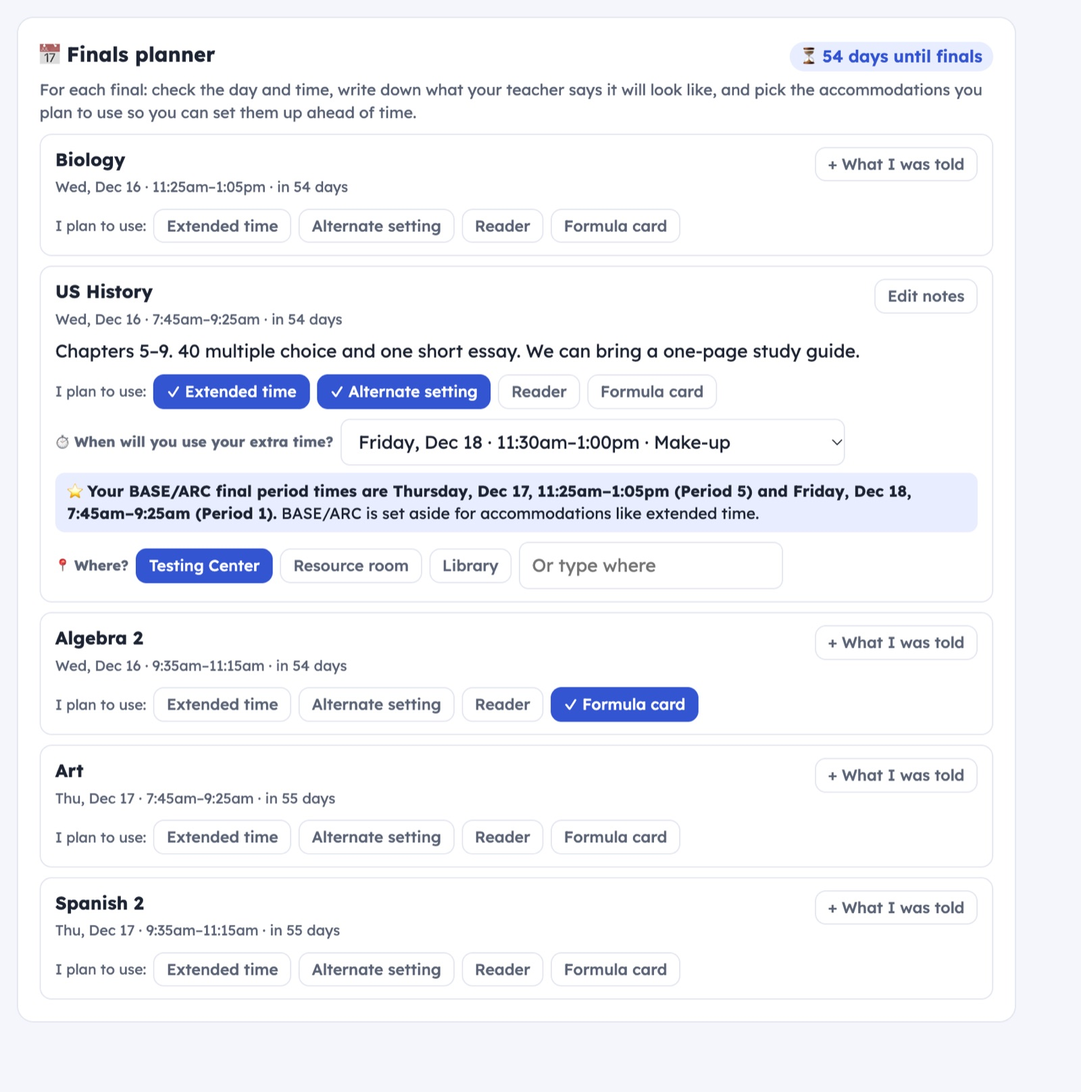
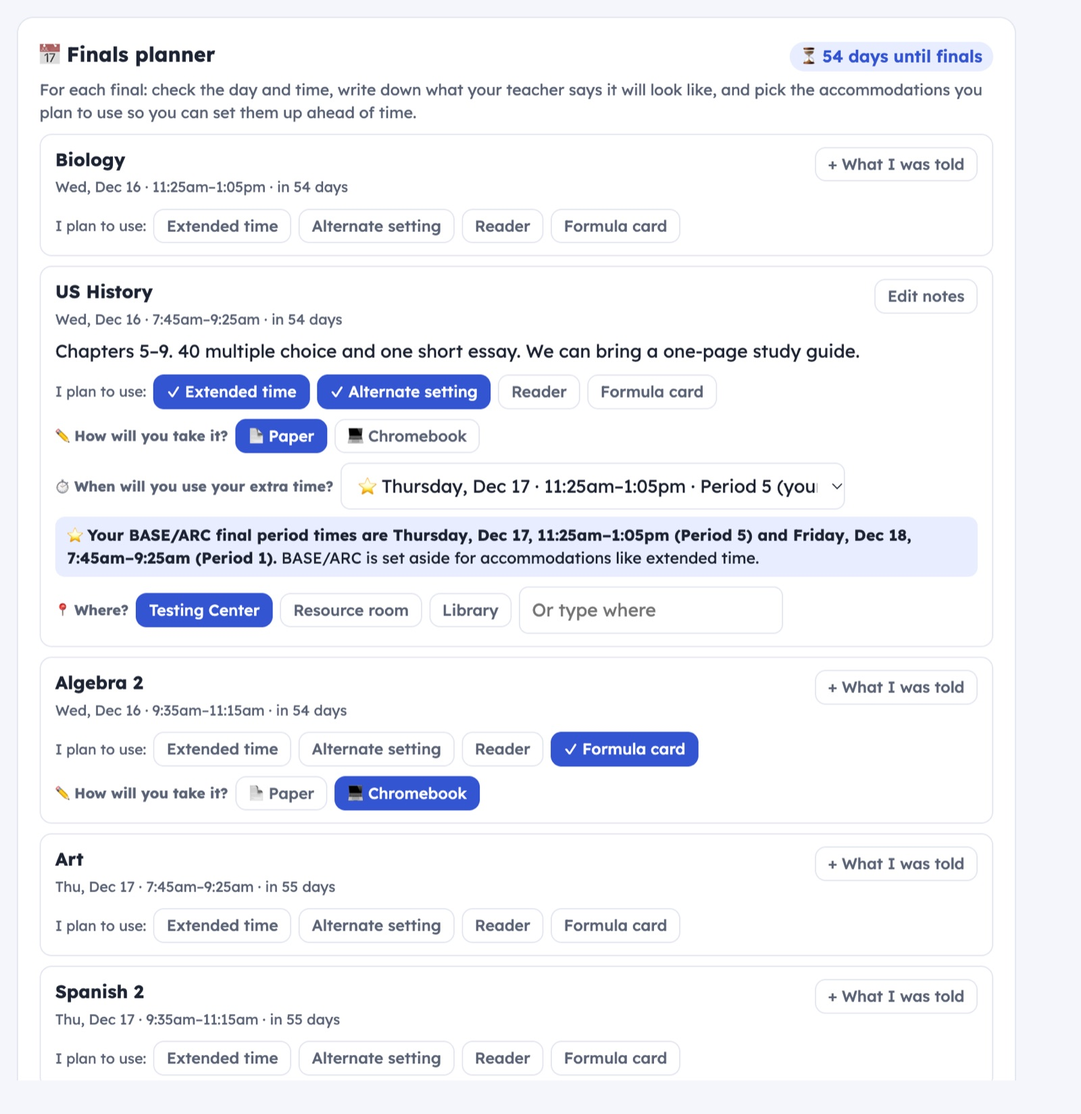
Resource Check-In showcase: finals list by period with test style; demo 1.95

diff --git a/resource/demo.html b/resource/demo.html
@@ -430,7 +430,7 @@ tr.lowrow td { background: var(--chip); border-bottom: 1px solid var(--line); }
    plan how they'll use resource time, and list upcoming tests. The teacher sees everyone.
    A Google Sheet + Apps Script web app. How to set it up: SETUP.md. */
 
-var VERSION = '1.94';
+var VERSION = '1.95';
 
 // Data tabs and their columns. Dates are stored as text (yyyy-mm-dd).
 var TABS = {
@@ -479,7 +479,7 @@ var TABS = {
   'Self-report checks': ['Week of', 'Email', 'Class', 'Said missing', 'Found missing (pasted page)', 'Checked', 'Match'],
   // the grade each student wants to finish the semester with, per class; and what each class said the final exam will be like
   'Grade goals': ['Email', 'Semester', 'Class', 'Goal (%)', 'Updated', 'Reason for the change'],
-  'Final exams': ['Email', 'Semester', 'Class', 'Exam date', 'What it will look like', 'Updated', 'Accommodations I plan to use', 'Extended time: when', 'Alternate setting: where'],
+  'Final exams': ['Email', 'Semester', 'Class', 'Exam date', 'What it will look like', 'Updated', 'Accommodations I plan to use', 'Extended time: when', 'Alternate setting: where', 'Test style (Paper or Chromebook)'],
   // the school's final exam schedule (change it each semester): which period's final is when
   'Final exam schedule': ['Date', 'Start', 'End', 'Period (or Make-up)'],
   // the school year (change it each year): days with no school, finals days, and the first and last day; the grade check day moves around them
@@ -3419,15 +3419,16 @@ function api_saveFinal(cls, date, text, accoms, x) {
   return locked_(function () {
     var old = rows_('Final exams').filter(function (r) { return low_(r[0]) === email && day_(r[1]) === sem && String(r[2]) === cls; })[0] || [];
     var when = x && x.when !== undefined ? clean_(x.when, 120) : String(old[7] || ''), where = x && x.where !== undefined ? clean_(x.where, 120) : String(old[8] || '');
+    var style = x && x.style !== undefined ? (/^(Paper|Chromebook)$/.test(String(x.style)) ? String(x.style) : '') : String(old[9] || '');
     if (!list.some(function (a) { return FIN_EXT.test(a); })) when = '';          // only with extended time / an alternate setting chosen
     if (!list.some(function (a) { return FIN_ALT.test(a); })) where = '';
-    rewrite_('Final exams', function (r) { return !(low_(r[0]) === email && day_(r[1]) === sem && String(r[2]) === cls); }, text || date || acc ? [[email, sem, cls, date, text, stamp_(), acc, when, where]] : []);
+    rewrite_('Final exams', function (r) { return !(low_(r[0]) === email && day_(r[1]) === sem && String(r[2]) === cls); }, text || date || acc || style ? [[email, sem, cls, date, text, stamp_(), acc, when, where, style]] : []);
     return finals_(email);
   });
 }
 function finals_(email) {
   var sem = semStart_(), o = {};
-  rows_('Final exams').forEach(function (r) { if (low_(r[0]) === email && day_(r[1]) === sem) o[String(r[2])] = { date: day_(r[3]), text: String(r[4] || ''), updated: String(r[5] || ''), accoms: String(r[6] || '').split('; ').filter(String), when: String(r[7] || ''), where: String(r[8] || '') }; });
+  rows_('Final exams').forEach(function (r) { if (low_(r[0]) === email && day_(r[1]) === sem) o[String(r[2])] = { date: day_(r[3]), text: String(r[4] || ''), updated: String(r[5] || ''), accoms: String(r[6] || '').split('; ').filter(String), when: String(r[7] || ''), where: String(r[8] || ''), style: String(r[9] || '') }; });
   return o;
 }
 // Teacher: every student's final with accommodations planned, in exam order (for testing rooms and extended time).
@@ -3437,7 +3438,7 @@ function finalsAccoms_(names) {
   rows_('Final exams').forEach(function (r) {
     if (day_(r[1]) !== sem || !String(r[6] || '')) return;
     var e = low_(r[0]), cls = String(r[2]), p = per[e + '|' + cls] || '', slot = finalSlot_(p, sched);
-    out.push({ email: e, name: names[e] || e, cls: cls, period: p, date: (slot && slot.date) || day_(r[3]), start: slot ? slot.start : '', end: slot ? slot.end : '', accoms: String(r[6]).split('; ').filter(String), when: String(r[7] || ''), where: String(r[8] || '') });
+    out.push({ email: e, name: names[e] || e, cls: cls, period: p, date: (slot && slot.date) || day_(r[3]), start: slot ? slot.start : '', end: slot ? slot.end : '', accoms: String(r[6]).split('; ').filter(String), when: String(r[7] || ''), where: String(r[8] || ''), style: String(r[9] || '') });
   });
   return out.sort(function (a, b) { return (a.date || '9') + a.start < (b.date || '9') + b.start ? -1 : 1; });
 }
@@ -3950,8 +3951,8 @@ function weekOf_(s) { var p = s.split('-'), dow = new Date(Date.UTC(+p[0], +p[1]
     g.setUser('ort123456@d204.lths.net');
     api_saveDayPlan('Finish the Ch. 6 worksheet for US History, then make flashcards for Thursday’s test');
     api_saveGradeGoals({ 'US History': 70, 'Algebra 2': 80, Biology: 80, 'Spanish 2': 90 });
-    api_saveFinal('US History', '', 'Chapters 5–9. 40 multiple choice and one short essay. We can bring a one-page study guide.', ['Extended time', 'Alternate setting'], { when: 'Friday, Dec 18 · 11:30am–1:00pm · Make-up', where: 'Testing Center' });
-    api_saveFinal('Algebra 2', '', '', ['Formula card']);
+    api_saveFinal('US History', '', 'Chapters 5–9. 40 multiple choice and one short essay. We can bring a one-page study guide.', ['Extended time', 'Alternate setting'], { when: 'Thursday, Dec 17 · 11:25am–1:05pm · Period 5', where: 'Testing Center', style: 'Paper' });
+    api_saveFinal('Algebra 2', '', '', ['Formula card'], { style: 'Chromebook' });
     g.setUser('smi513421@d204.lths.net');
     api_saveDayPlan('Study for the Geometry Unit 3 test');
     api_saveGradeGoals({ 'Geometry Prep': 80, Chemistry: 90, 'English II': 85 });
@@ -3964,6 +3965,7 @@ function weekOf_(s) { var p = s.split('-'), dow = new Date(Date.UTC(+p[0], +p[1]
     api_saveBenchmark('ort123456@d204.lths.net', { text: 'By December, Marcus will start work within 1 minute in 4 of 5 trials, have 2 or fewer missing assignments, and turn in 80% of coursework.', targets: t1, by: addDays_(today, 50) });
     api_flagDayPlan('wil501777@d204.lths.net', addDays_(today, -1), true, 'On his phone most of the period');
   }
+  if (/demo=1/.test(location.search)) { g.setUser('smi513421@d204.lths.net'); api_saveFinal('Chemistry', '', '', ['Extended time', 'Reader'], { when: 'Friday, Dec 18 · 11:30am–1:00pm · Make-up', style: 'Chromebook' }); api_saveFinal('Geometry Prep', '', '', ['Alternate setting'], { where: 'Resource room', style: 'Paper' }); }
   if (/demo=1/.test(location.search)) {          // tests with the resource teacher: a request, a released access code, a paper test
     g.setUser('wil501777@d204.lths.net'); var dc = api_myData().classes.filter(function (c) { return !c.resource; })[0]; if (dc) api_testRequest('folder', dc.name, 'Chapter 5 quiz');
     g.setUser('ray@d204.lths.net');
@@ -4945,6 +4947,8 @@ function finWhenOpts() {
 }
 function finExtras(k, f) {
   var h = '';
+  if (f.accoms.length) h += '<div class="row" style="gap:6px;margin-top:8px;align-items:center"><span class="small" style="display:inline"><b>✏ How will you take it?</b></span>' +
+    [['Paper', '📄 Paper'], ['Chromebook', '💻 Chromebook']].map(function (o) { return '<button class="btn small' + (f.style === o[0] ? ' primary' : '') + '" onclick="finExtra(' + k + ',\'style\',\'' + (f.style === o[0] ? '' : o[0]) + '\')">' + o[1] + '</button>'; }).join('') + '</div>';
   var mine = finMine().map(finWhenText), dc = esc(B.dayClass || 'resource');
   if (f.accoms.some(function (a) { return FIN_EXT.test(a); })) h += '<div class="row" style="gap:6px;margin-top:8px;align-items:center"><span class="small" style="display:inline"><b>⏱ When will you use your extra time?</b></span><select style="max-width:420px" onchange="finExtra(' + k + ',\'when\',this.value)"><option value="">Pick a time</option>' +
     finWhenOpts().map(function (o) { var my = mine.indexOf(o) >= 0; return '<option value="' + esc(o) + '"' + (o === f.when ? ' selected' : '') + '>' + (my ? '⭐ ' : '') + esc(o) + (my ? ' (your ' + dc + ' time)' : '') + '</option>'; }).join('') + (f.when && finWhenOpts().indexOf(f.when) < 0 ? '<option selected>' + esc(f.when) + '</option>' : '') + '</select></div>' +
@@ -4955,7 +4959,7 @@ function finExtras(k, f) {
   return h;
 }
 function finExtra(k, field, v) {
-  var c = graded()[k], f = (D.finals || {})[c.name] || { date: '', text: '', accoms: [] }, x = { when: f.when || '', where: f.where || '' };
+  var c = graded()[k], f = (D.finals || {})[c.name] || { date: '', text: '', accoms: [] }, x = { when: f.when || '', where: f.where || '', style: f.style || '' };
   x[field] = v; f[field] = v; D.finals[c.name] = f; drawCheckin();
   call('api_saveFinal', c.name, f.date, f.text, f.accoms, x).then(function (r) { D.finals = r; toast('Saved'); }).catch(oops);
 }
@@ -6164,26 +6168,51 @@ function drawUpcoming() {
   }).join('') + '</tbody></table>' : '<div class="empty">No tests listed for the next two weeks.</div>';
   h += '</div>';
   var fa = TD.finalsAccoms || [];
-  if (fa.length) h += '<div class="row" style="margin-top:20px"><h2 class="grow" style="margin:0">Finals: accommodations students plan to use</h2><div class="seg">' + [['time', 'By exam time'], ['student', 'By student']].map(function (o) { return '<button class="' + (FA_BY === o[0] ? 'on' : '') + '" onclick="FA_BY=\'' + o[0] + '\';drawUpcoming()">' + o[1] + '</button>'; }).join('') + '</div><button class="btn small" onclick="faPrint()">🖨 Print this list</button></div>' +
-    '<p class="sub">From each student’s Finals planner. When they’ll use extended time, and where for an alternate setting.</p><div class="card">' + faTable(fa, true) + '</div>';
+  if (fa.length) h += '<div class="row" style="margin-top:20px"><h2 class="grow" style="margin:0">Finals: accommodations students plan to use</h2><div class="seg">' + [['period', 'By period'], ['time', 'By exam time'], ['student', 'By student']].map(function (o) { return '<button class="' + (FA_BY === o[0] ? 'on' : '') + '" onclick="FA_BY=\'' + o[0] + '\';drawUpcoming()">' + o[1] + '</button>'; }).join('') + '</div><button class="btn small" onclick="faPrint()">🖨 Print this list</button></div>' +
+    '<p class="sub">From each student’s Finals planner. When they’ll use extended time, where for an alternate setting, and paper or Chromebook.</p>' + (FA_BY === 'period' ? faPeriods(fa, true) : '<div class="card">' + faTable(fa, true) + '</div>');
   $('main').innerHTML = h;
 }
 
 // the compiled finals accommodations list: by exam time (setting up rooms) or by student; printable (1.92)
-var FA_BY = 'time';
+var FA_BY = 'period';
 function faRows(fa) { var l = fa.slice(); if (FA_BY === 'student') l.sort(function (a, b) { return a.name.localeCompare(b.name) || ((a.date || '9') + a.start < (b.date || '9') + b.start ? -1 : 1); }); return l; }
 function faTable(fa, click) {
-  return '<table><thead><tr>' + (FA_BY === 'student' ? '<th>Student</th><th>Final</th>' : '<th>Final</th><th>Student</th>') + '<th>Class</th><th>Accommodations</th><th>Extended time: when</th><th>Alternate setting: where</th></tr></thead><tbody>' + faRows(fa).map(function (x) {
+  return '<table><thead><tr>' + (FA_BY === 'student' ? '<th>Student</th><th>Final</th>' : '<th>Final</th><th>Student</th>') + '<th>Class</th><th>Accommodations</th><th>Extended time: when</th><th>Alternate setting: where</th><th>Test style</th></tr></thead><tbody>' + faRows(fa).map(function (x) {
     var fin = (x.date ? fmtDay(x.date) : '—') + (x.start ? '<small>' + esc(x.start + '–' + x.end) + (x.period ? ' · period ' + esc(x.period) : '') + '</small>' : '');
     var who = click ? '<div class="person">' + avatar(x.email, x.name) + '<b>' + esc(x.name) + '</b></div>' : '<b>' + esc(x.name) + '</b>';
     return '<tr' + (click ? ' class="click" onclick="openStudent(\'' + esc(x.email) + '\')"' : '') + '>' + (FA_BY === 'student' ? '<td>' + who + '</td><td>' + fin + '</td>' : '<td>' + fin + '</td><td>' + who + '</td>') +
-      '<td>' + esc(x.cls) + '</td><td>' + esc(x.accoms.join(', ')) + '</td><td>' + (x.when ? esc(x.when) : x.accoms.some(function (a) { return FIN_EXT.test(a); }) ? '<span class="small" style="color:var(--warn)">not picked yet</span>' : '') + '</td><td>' + (x.where ? esc(x.where) : x.accoms.some(function (a) { return FIN_ALT.test(a); }) ? '<span class="small" style="color:var(--warn)">not picked yet</span>' : '') + '</td></tr>';
+      '<td>' + esc(x.cls) + '</td><td>' + esc(x.accoms.join(', ')) + '</td><td>' + (x.when ? esc(x.when) : x.accoms.some(function (a) { return FIN_EXT.test(a); }) ? '<span class="small" style="color:var(--warn)">not picked yet</span>' : '') + '</td><td>' + (x.where ? esc(x.where) : x.accoms.some(function (a) { return FIN_ALT.test(a); }) ? '<span class="small" style="color:var(--warn)">not picked yet</span>' : '') + '</td><td>' + faStyle(x) + '</td></tr>';
   }).join('') + '</tbody></table>';
+}
+function faStyle(x) { return x.style === 'Paper' ? '📄 Paper' : x.style === 'Chromebook' ? '💻 Chromebook' : '<span class="small" style="color:var(--warn)">not picked yet</span>'; }
+// By period (1.95): each final exam period in time order, with every accommodation to plan for in it: the students whose final it is,
+// and students using extended time in that period for another final. Totals at the top of each period.
+function faPeriods(fa, click) {
+  var slots = (B.finalSched || []).slice().sort(function (a, b) { return a.date < b.date ? -1 : a.date > b.date ? 1 : clockMin(a.start) - clockMin(b.start); });
+  var other = [], blocks = slots.map(function (sl) {
+    var t = finWhenText(sl), here = fa.filter(function (x) { return x.date === sl.date && x.start === sl.start; }).map(function (x) { return { x: x, extra: false }; });
+    fa.forEach(function (x) { if (x.when === t && !(x.date === sl.date && x.start === sl.start)) here.push({ x: x, extra: true }); });
+    return { sl: sl, t: t, rows: here };
+  });
+  fa.forEach(function (x) { if (!slots.some(function (sl) { return x.date === sl.date && x.start === sl.start; })) other.push({ x: x, extra: false }); });
+  if (other.length) blocks.push({ sl: null, t: 'Day or time not on the Final exam schedule', rows: other });
+  var row = function (r) {
+    var x = r.x, acc = r.extra ? ['Extended time'] : x.accoms.slice();
+    var accTxt = acc.map(function (a) { return esc(a) + (FIN_ALT.test(a) && x.where ? ' (' + esc(x.where) + ')' : '') + (!r.extra && FIN_EXT.test(a) && x.when ? ' <span class="small" style="display:inline">→ ' + esc(x.when.split(' · ').slice(0, 2).join(' ')) + '</span>' : ''); }).join(', ');
+    var who = click ? '<a href="#" onclick="openStudent(\'' + esc(x.email) + '\');return false"><b>' + esc(x.name) + '</b></a>' : '<b>' + esc(x.name) + '</b>';
+    return '<tr><td>' + who + '</td><td>' + esc(x.cls) + (r.extra ? '<small>extra time for their ' + (x.period ? 'Period ' + esc(x.period) : '') + ' final</small>' : '') + '</td><td>' + accTxt + '</td><td>' + faStyle(x) + '</td></tr>';
+  };
+  return blocks.filter(function (b) { return b.rows.length; }).map(function (b) {
+    var tally = {}; b.rows.forEach(function (r) { (r.extra ? ['Extended time'] : r.x.accoms).forEach(function (a) { tally[a] = (tally[a] || 0) + 1; }); if (r.x.style) tally[r.x.style === 'Paper' ? '📄 Paper' : '💻 Chromebook'] = (tally[r.x.style === 'Paper' ? '📄 Paper' : '💻 Chromebook'] || 0) + 1; });
+    return '<div class="card faslot"><div class="row" style="align-items:baseline"><h3 class="grow" style="margin:0">' + esc(b.t) + '</h3><span class="small">' + b.rows.length + ' student' + (b.rows.length === 1 ? '' : 's') + '</span></div>' +
+      '<div class="chips" style="margin:6px 0 8px">' + Object.keys(tally).map(function (k) { return '<span class="chip">' + esc(k) + ' <b>' + tally[k] + '</b></span>'; }).join('') + '</div>' +
+      '<table><thead><tr><th>Student</th><th>Class</th><th>Accommodations</th><th>Test style</th></tr></thead><tbody>' + b.rows.map(row).join('') + '</tbody></table></div>';
+  }).join('');
 }
 function faPrint() {
   var w = printOpen();
-  printShow(w, '<h2 style="margin:0 0 4px">Final exams: accommodations students plan to use</h2><p style="margin:0 0 12px;color:#5b6476;font-size:13px">' + (FA_BY === 'student' ? 'By student' : 'By exam time') + ' · printed ' + fmtDay(B.today) + '</p>' +
-    '<style>table{border-collapse:collapse;width:100%;font-size:13px}th,td{border:1px solid #d9dee8;padding:6px 8px;text-align:left;vertical-align:top}th{background:#f1f4fa}small{display:block;color:#5b6476}</style>' + faTable(TD.finalsAccoms || [], false), 'Finals accommodations');
+  printShow(w, '<h2 style="margin:0 0 4px">Final exams: accommodations students plan to use</h2><p style="margin:0 0 12px;color:#5b6476;font-size:13px">' + (FA_BY === 'student' ? 'By student' : FA_BY === 'period' ? 'By period' : 'By exam time') + ' · printed ' + fmtDay(B.today) + '</p>' +
+    '<style>table{border-collapse:collapse;width:100%;font-size:13px}th,td{border:1px solid #d9dee8;padding:6px 8px;text-align:left;vertical-align:top}th{background:#f1f4fa}small{display:block;color:#5b6476}.faslot{break-inside:avoid;margin:0 0 18px}.faslot h3{font-size:15px;margin:0 0 4px}.chip{display:inline-block;border:1px solid #d9dee8;border-radius:12px;padding:1px 8px;margin:0 4px 4px 0;font-size:12px}.row{display:flex;gap:8px}.grow{flex:1}</style>' + (FA_BY === 'period' ? faPeriods(TD.finalsAccoms || [], false) : faTable(TD.finalsAccoms || [], false)), 'Finals accommodations');
 }
 /* ---------- teacher: the app's Settings page (each teacher decides what students do and see) ---------- */
 var SETS = null, SET_CHG = {};

diff --git a/resource/practice.html b/resource/practice.html
@@ -430,7 +430,7 @@ tr.lowrow td { background: var(--chip); border-bottom: 1px solid var(--line); }
    plan how they'll use resource time, and list upcoming tests. The teacher sees everyone.
    A Google Sheet + Apps Script web app. How to set it up: SETUP.md. */
 
-var VERSION = '1.94';
+var VERSION = '1.95';
 
 // Data tabs and their columns. Dates are stored as text (yyyy-mm-dd).
 var TABS = {
@@ -479,7 +479,7 @@ var TABS = {
   'Self-report checks': ['Week of', 'Email', 'Class', 'Said missing', 'Found missing (pasted page)', 'Checked', 'Match'],
   // the grade each student wants to finish the semester with, per class; and what each class said the final exam will be like
   'Grade goals': ['Email', 'Semester', 'Class', 'Goal (%)', 'Updated', 'Reason for the change'],
-  'Final exams': ['Email', 'Semester', 'Class', 'Exam date', 'What it will look like', 'Updated', 'Accommodations I plan to use', 'Extended time: when', 'Alternate setting: where'],
+  'Final exams': ['Email', 'Semester', 'Class', 'Exam date', 'What it will look like', 'Updated', 'Accommodations I plan to use', 'Extended time: when', 'Alternate setting: where', 'Test style (Paper or Chromebook)'],
   // the school's final exam schedule (change it each semester): which period's final is when
   'Final exam schedule': ['Date', 'Start', 'End', 'Period (or Make-up)'],
   // the school year (change it each year): days with no school, finals days, and the first and last day; the grade check day moves around them
@@ -3419,15 +3419,16 @@ function api_saveFinal(cls, date, text, accoms, x) {
   return locked_(function () {
     var old = rows_('Final exams').filter(function (r) { return low_(r[0]) === email && day_(r[1]) === sem && String(r[2]) === cls; })[0] || [];
     var when = x && x.when !== undefined ? clean_(x.when, 120) : String(old[7] || ''), where = x && x.where !== undefined ? clean_(x.where, 120) : String(old[8] || '');
+    var style = x && x.style !== undefined ? (/^(Paper|Chromebook)$/.test(String(x.style)) ? String(x.style) : '') : String(old[9] || '');
     if (!list.some(function (a) { return FIN_EXT.test(a); })) when = '';          // only with extended time / an alternate setting chosen
     if (!list.some(function (a) { return FIN_ALT.test(a); })) where = '';
-    rewrite_('Final exams', function (r) { return !(low_(r[0]) === email && day_(r[1]) === sem && String(r[2]) === cls); }, text || date || acc ? [[email, sem, cls, date, text, stamp_(), acc, when, where]] : []);
+    rewrite_('Final exams', function (r) { return !(low_(r[0]) === email && day_(r[1]) === sem && String(r[2]) === cls); }, text || date || acc || style ? [[email, sem, cls, date, text, stamp_(), acc, when, where, style]] : []);
     return finals_(email);
   });
 }
 function finals_(email) {
   var sem = semStart_(), o = {};
-  rows_('Final exams').forEach(function (r) { if (low_(r[0]) === email && day_(r[1]) === sem) o[String(r[2])] = { date: day_(r[3]), text: String(r[4] || ''), updated: String(r[5] || ''), accoms: String(r[6] || '').split('; ').filter(String), when: String(r[7] || ''), where: String(r[8] || '') }; });
+  rows_('Final exams').forEach(function (r) { if (low_(r[0]) === email && day_(r[1]) === sem) o[String(r[2])] = { date: day_(r[3]), text: String(r[4] || ''), updated: String(r[5] || ''), accoms: String(r[6] || '').split('; ').filter(String), when: String(r[7] || ''), where: String(r[8] || ''), style: String(r[9] || '') }; });
   return o;
 }
 // Teacher: every student's final with accommodations planned, in exam order (for testing rooms and extended time).
@@ -3437,7 +3438,7 @@ function finalsAccoms_(names) {
   rows_('Final exams').forEach(function (r) {
     if (day_(r[1]) !== sem || !String(r[6] || '')) return;
     var e = low_(r[0]), cls = String(r[2]), p = per[e + '|' + cls] || '', slot = finalSlot_(p, sched);
-    out.push({ email: e, name: names[e] || e, cls: cls, period: p, date: (slot && slot.date) || day_(r[3]), start: slot ? slot.start : '', end: slot ? slot.end : '', accoms: String(r[6]).split('; ').filter(String), when: String(r[7] || ''), where: String(r[8] || '') });
+    out.push({ email: e, name: names[e] || e, cls: cls, period: p, date: (slot && slot.date) || day_(r[3]), start: slot ? slot.start : '', end: slot ? slot.end : '', accoms: String(r[6]).split('; ').filter(String), when: String(r[7] || ''), where: String(r[8] || ''), style: String(r[9] || '') });
   });
   return out.sort(function (a, b) { return (a.date || '9') + a.start < (b.date || '9') + b.start ? -1 : 1; });
 }
@@ -3950,8 +3951,8 @@ function weekOf_(s) { var p = s.split('-'), dow = new Date(Date.UTC(+p[0], +p[1]
     g.setUser('ort123456@d204.lths.net');
     api_saveDayPlan('Finish the Ch. 6 worksheet for US History, then make flashcards for Thursday’s test');
     api_saveGradeGoals({ 'US History': 70, 'Algebra 2': 80, Biology: 80, 'Spanish 2': 90 });
-    api_saveFinal('US History', '', 'Chapters 5–9. 40 multiple choice and one short essay. We can bring a one-page study guide.', ['Extended time', 'Alternate setting'], { when: 'Friday, Dec 18 · 11:30am–1:00pm · Make-up', where: 'Testing Center' });
-    api_saveFinal('Algebra 2', '', '', ['Formula card']);
+    api_saveFinal('US History', '', 'Chapters 5–9. 40 multiple choice and one short essay. We can bring a one-page study guide.', ['Extended time', 'Alternate setting'], { when: 'Thursday, Dec 17 · 11:25am–1:05pm · Period 5', where: 'Testing Center', style: 'Paper' });
+    api_saveFinal('Algebra 2', '', '', ['Formula card'], { style: 'Chromebook' });
     g.setUser('smi513421@d204.lths.net');
     api_saveDayPlan('Study for the Geometry Unit 3 test');
     api_saveGradeGoals({ 'Geometry Prep': 80, Chemistry: 90, 'English II': 85 });
@@ -3964,6 +3965,7 @@ function weekOf_(s) { var p = s.split('-'), dow = new Date(Date.UTC(+p[0], +p[1]
     api_saveBenchmark('ort123456@d204.lths.net', { text: 'By December, Marcus will start work within 1 minute in 4 of 5 trials, have 2 or fewer missing assignments, and turn in 80% of coursework.', targets: t1, by: addDays_(today, 50) });
     api_flagDayPlan('wil501777@d204.lths.net', addDays_(today, -1), true, 'On his phone most of the period');
   }
+  if (/demo=1/.test(location.search)) { g.setUser('smi513421@d204.lths.net'); api_saveFinal('Chemistry', '', '', ['Extended time', 'Reader'], { when: 'Friday, Dec 18 · 11:30am–1:00pm · Make-up', style: 'Chromebook' }); api_saveFinal('Geometry Prep', '', '', ['Alternate setting'], { where: 'Resource room', style: 'Paper' }); }
   if (/demo=1/.test(location.search)) {          // tests with the resource teacher: a request, a released access code, a paper test
     g.setUser('wil501777@d204.lths.net'); var dc = api_myData().classes.filter(function (c) { return !c.resource; })[0]; if (dc) api_testRequest('folder', dc.name, 'Chapter 5 quiz');
     g.setUser('ray@d204.lths.net');
@@ -4945,6 +4947,8 @@ function finWhenOpts() {
 }
 function finExtras(k, f) {
   var h = '';
+  if (f.accoms.length) h += '<div class="row" style="gap:6px;margin-top:8px;align-items:center"><span class="small" style="display:inline"><b>✏ How will you take it?</b></span>' +
+    [['Paper', '📄 Paper'], ['Chromebook', '💻 Chromebook']].map(function (o) { return '<button class="btn small' + (f.style === o[0] ? ' primary' : '') + '" onclick="finExtra(' + k + ',\'style\',\'' + (f.style === o[0] ? '' : o[0]) + '\')">' + o[1] + '</button>'; }).join('') + '</div>';
   var mine = finMine().map(finWhenText), dc = esc(B.dayClass || 'resource');
   if (f.accoms.some(function (a) { return FIN_EXT.test(a); })) h += '<div class="row" style="gap:6px;margin-top:8px;align-items:center"><span class="small" style="display:inline"><b>⏱ When will you use your extra time?</b></span><select style="max-width:420px" onchange="finExtra(' + k + ',\'when\',this.value)"><option value="">Pick a time</option>' +
     finWhenOpts().map(function (o) { var my = mine.indexOf(o) >= 0; return '<option value="' + esc(o) + '"' + (o === f.when ? ' selected' : '') + '>' + (my ? '⭐ ' : '') + esc(o) + (my ? ' (your ' + dc + ' time)' : '') + '</option>'; }).join('') + (f.when && finWhenOpts().indexOf(f.when) < 0 ? '<option selected>' + esc(f.when) + '</option>' : '') + '</select></div>' +
@@ -4955,7 +4959,7 @@ function finExtras(k, f) {
   return h;
 }
 function finExtra(k, field, v) {
-  var c = graded()[k], f = (D.finals || {})[c.name] || { date: '', text: '', accoms: [] }, x = { when: f.when || '', where: f.where || '' };
+  var c = graded()[k], f = (D.finals || {})[c.name] || { date: '', text: '', accoms: [] }, x = { when: f.when || '', where: f.where || '', style: f.style || '' };
   x[field] = v; f[field] = v; D.finals[c.name] = f; drawCheckin();
   call('api_saveFinal', c.name, f.date, f.text, f.accoms, x).then(function (r) { D.finals = r; toast('Saved'); }).catch(oops);
 }
@@ -6164,26 +6168,51 @@ function drawUpcoming() {
   }).join('') + '</tbody></table>' : '<div class="empty">No tests listed for the next two weeks.</div>';
   h += '</div>';
   var fa = TD.finalsAccoms || [];
-  if (fa.length) h += '<div class="row" style="margin-top:20px"><h2 class="grow" style="margin:0">Finals: accommodations students plan to use</h2><div class="seg">' + [['time', 'By exam time'], ['student', 'By student']].map(function (o) { return '<button class="' + (FA_BY === o[0] ? 'on' : '') + '" onclick="FA_BY=\'' + o[0] + '\';drawUpcoming()">' + o[1] + '</button>'; }).join('') + '</div><button class="btn small" onclick="faPrint()">🖨 Print this list</button></div>' +
-    '<p class="sub">From each student’s Finals planner. When they’ll use extended time, and where for an alternate setting.</p><div class="card">' + faTable(fa, true) + '</div>';
+  if (fa.length) h += '<div class="row" style="margin-top:20px"><h2 class="grow" style="margin:0">Finals: accommodations students plan to use</h2><div class="seg">' + [['period', 'By period'], ['time', 'By exam time'], ['student', 'By student']].map(function (o) { return '<button class="' + (FA_BY === o[0] ? 'on' : '') + '" onclick="FA_BY=\'' + o[0] + '\';drawUpcoming()">' + o[1] + '</button>'; }).join('') + '</div><button class="btn small" onclick="faPrint()">🖨 Print this list</button></div>' +
+    '<p class="sub">From each student’s Finals planner. When they’ll use extended time, where for an alternate setting, and paper or Chromebook.</p>' + (FA_BY === 'period' ? faPeriods(fa, true) : '<div class="card">' + faTable(fa, true) + '</div>');
   $('main').innerHTML = h;
 }
 
 // the compiled finals accommodations list: by exam time (setting up rooms) or by student; printable (1.92)
-var FA_BY = 'time';
+var FA_BY = 'period';
 function faRows(fa) { var l = fa.slice(); if (FA_BY === 'student') l.sort(function (a, b) { return a.name.localeCompare(b.name) || ((a.date || '9') + a.start < (b.date || '9') + b.start ? -1 : 1); }); return l; }
 function faTable(fa, click) {
-  return '<table><thead><tr>' + (FA_BY === 'student' ? '<th>Student</th><th>Final</th>' : '<th>Final</th><th>Student</th>') + '<th>Class</th><th>Accommodations</th><th>Extended time: when</th><th>Alternate setting: where</th></tr></thead><tbody>' + faRows(fa).map(function (x) {
+  return '<table><thead><tr>' + (FA_BY === 'student' ? '<th>Student</th><th>Final</th>' : '<th>Final</th><th>Student</th>') + '<th>Class</th><th>Accommodations</th><th>Extended time: when</th><th>Alternate setting: where</th><th>Test style</th></tr></thead><tbody>' + faRows(fa).map(function (x) {
     var fin = (x.date ? fmtDay(x.date) : '—') + (x.start ? '<small>' + esc(x.start + '–' + x.end) + (x.period ? ' · period ' + esc(x.period) : '') + '</small>' : '');
     var who = click ? '<div class="person">' + avatar(x.email, x.name) + '<b>' + esc(x.name) + '</b></div>' : '<b>' + esc(x.name) + '</b>';
     return '<tr' + (click ? ' class="click" onclick="openStudent(\'' + esc(x.email) + '\')"' : '') + '>' + (FA_BY === 'student' ? '<td>' + who + '</td><td>' + fin + '</td>' : '<td>' + fin + '</td><td>' + who + '</td>') +
-      '<td>' + esc(x.cls) + '</td><td>' + esc(x.accoms.join(', ')) + '</td><td>' + (x.when ? esc(x.when) : x.accoms.some(function (a) { return FIN_EXT.test(a); }) ? '<span class="small" style="color:var(--warn)">not picked yet</span>' : '') + '</td><td>' + (x.where ? esc(x.where) : x.accoms.some(function (a) { return FIN_ALT.test(a); }) ? '<span class="small" style="color:var(--warn)">not picked yet</span>' : '') + '</td></tr>';
+      '<td>' + esc(x.cls) + '</td><td>' + esc(x.accoms.join(', ')) + '</td><td>' + (x.when ? esc(x.when) : x.accoms.some(function (a) { return FIN_EXT.test(a); }) ? '<span class="small" style="color:var(--warn)">not picked yet</span>' : '') + '</td><td>' + (x.where ? esc(x.where) : x.accoms.some(function (a) { return FIN_ALT.test(a); }) ? '<span class="small" style="color:var(--warn)">not picked yet</span>' : '') + '</td><td>' + faStyle(x) + '</td></tr>';
   }).join('') + '</tbody></table>';
+}
+function faStyle(x) { return x.style === 'Paper' ? '📄 Paper' : x.style === 'Chromebook' ? '💻 Chromebook' : '<span class="small" style="color:var(--warn)">not picked yet</span>'; }
+// By period (1.95): each final exam period in time order, with every accommodation to plan for in it: the students whose final it is,
+// and students using extended time in that period for another final. Totals at the top of each period.
+function faPeriods(fa, click) {
+  var slots = (B.finalSched || []).slice().sort(function (a, b) { return a.date < b.date ? -1 : a.date > b.date ? 1 : clockMin(a.start) - clockMin(b.start); });
+  var other = [], blocks = slots.map(function (sl) {
+    var t = finWhenText(sl), here = fa.filter(function (x) { return x.date === sl.date && x.start === sl.start; }).map(function (x) { return { x: x, extra: false }; });
+    fa.forEach(function (x) { if (x.when === t && !(x.date === sl.date && x.start === sl.start)) here.push({ x: x, extra: true }); });
+    return { sl: sl, t: t, rows: here };
+  });
+  fa.forEach(function (x) { if (!slots.some(function (sl) { return x.date === sl.date && x.start === sl.start; })) other.push({ x: x, extra: false }); });
+  if (other.length) blocks.push({ sl: null, t: 'Day or time not on the Final exam schedule', rows: other });
+  var row = function (r) {
+    var x = r.x, acc = r.extra ? ['Extended time'] : x.accoms.slice();
+    var accTxt = acc.map(function (a) { return esc(a) + (FIN_ALT.test(a) && x.where ? ' (' + esc(x.where) + ')' : '') + (!r.extra && FIN_EXT.test(a) && x.when ? ' <span class="small" style="display:inline">→ ' + esc(x.when.split(' · ').slice(0, 2).join(' ')) + '</span>' : ''); }).join(', ');
+    var who = click ? '<a href="#" onclick="openStudent(\'' + esc(x.email) + '\');return false"><b>' + esc(x.name) + '</b></a>' : '<b>' + esc(x.name) + '</b>';
+    return '<tr><td>' + who + '</td><td>' + esc(x.cls) + (r.extra ? '<small>extra time for their ' + (x.period ? 'Period ' + esc(x.period) : '') + ' final</small>' : '') + '</td><td>' + accTxt + '</td><td>' + faStyle(x) + '</td></tr>';
+  };
+  return blocks.filter(function (b) { return b.rows.length; }).map(function (b) {
+    var tally = {}; b.rows.forEach(function (r) { (r.extra ? ['Extended time'] : r.x.accoms).forEach(function (a) { tally[a] = (tally[a] || 0) + 1; }); if (r.x.style) tally[r.x.style === 'Paper' ? '📄 Paper' : '💻 Chromebook'] = (tally[r.x.style === 'Paper' ? '📄 Paper' : '💻 Chromebook'] || 0) + 1; });
+    return '<div class="card faslot"><div class="row" style="align-items:baseline"><h3 class="grow" style="margin:0">' + esc(b.t) + '</h3><span class="small">' + b.rows.length + ' student' + (b.rows.length === 1 ? '' : 's') + '</span></div>' +
+      '<div class="chips" style="margin:6px 0 8px">' + Object.keys(tally).map(function (k) { return '<span class="chip">' + esc(k) + ' <b>' + tally[k] + '</b></span>'; }).join('') + '</div>' +
+      '<table><thead><tr><th>Student</th><th>Class</th><th>Accommodations</th><th>Test style</th></tr></thead><tbody>' + b.rows.map(row).join('') + '</tbody></table></div>';
+  }).join('');
 }
 function faPrint() {
   var w = printOpen();
-  printShow(w, '<h2 style="margin:0 0 4px">Final exams: accommodations students plan to use</h2><p style="margin:0 0 12px;color:#5b6476;font-size:13px">' + (FA_BY === 'student' ? 'By student' : 'By exam time') + ' · printed ' + fmtDay(B.today) + '</p>' +
-    '<style>table{border-collapse:collapse;width:100%;font-size:13px}th,td{border:1px solid #d9dee8;padding:6px 8px;text-align:left;vertical-align:top}th{background:#f1f4fa}small{display:block;color:#5b6476}</style>' + faTable(TD.finalsAccoms || [], false), 'Finals accommodations');
+  printShow(w, '<h2 style="margin:0 0 4px">Final exams: accommodations students plan to use</h2><p style="margin:0 0 12px;color:#5b6476;font-size:13px">' + (FA_BY === 'student' ? 'By student' : FA_BY === 'period' ? 'By period' : 'By exam time') + ' · printed ' + fmtDay(B.today) + '</p>' +
+    '<style>table{border-collapse:collapse;width:100%;font-size:13px}th,td{border:1px solid #d9dee8;padding:6px 8px;text-align:left;vertical-align:top}th{background:#f1f4fa}small{display:block;color:#5b6476}.faslot{break-inside:avoid;margin:0 0 18px}.faslot h3{font-size:15px;margin:0 0 4px}.chip{display:inline-block;border:1px solid #d9dee8;border-radius:12px;padding:1px 8px;margin:0 4px 4px 0;font-size:12px}.row{display:flex;gap:8px}.grow{flex:1}</style>' + (FA_BY === 'period' ? faPeriods(TD.finalsAccoms || [], false) : faTable(TD.finalsAccoms || [], false)), 'Finals accommodations');
 }
 /* ---------- teacher: the app's Settings page (each teacher decides what students do and see) ---------- */
 var SETS = null, SET_CHG = {};

diff --git a/resource/index.html b/resource/index.html
@@ -302,14 +302,14 @@ footer { padding-block: 48px 40px; color: var(--soft); font-size: .9rem; }
     <div class="feat">
       <div class="txt">
         <h3>Finals accommodations, compiled for you</h3>
-        <p>In their finals planner, students tap the accommodations they plan to use on each final. Extended time asks <b>when</b> (the school’s final exam periods appear as choices), and an alternate setting asks <b>where</b>.</p>
+        <p>In their finals planner, students tap the accommodations they plan to use on each final. Extended time asks <b>when</b> (the school’s final exam periods appear as choices, with the student’s BASE/ARC period starred), an alternate setting asks <b>where</b>, and each one asks paper or Chromebook.</p>
         <ul>
-          <li>The teacher gets one list of every student’s plans, sorted by exam time (to set up rooms) or by student</li>
-          <li>“Not picked yet” shows who still needs to decide</li>
-          <li>One click prints it</li>
+          <li>Grouped by final exam period, in the order they happen: everything to plan for in that period, with totals (extended time, alternate setting, reader, paper, Chromebook)</li>
+          <li>Each student’s name, class, accommodations and test style (paper or Chromebook); students using extra time in their BASE/ARC period show up there too</li>
+          <li>Also sorted by exam time or by student; “not picked yet” shows who still needs to decide; one click prints it</li>
         </ul>
       </div>
-      <figure class="shot"><img src="img/finlist.jpg" alt="A table of students' final exam accommodations with when and where" loading="lazy"><figcaption>The teacher’s list, by exam time.</figcaption></figure>
+      <figure class="shot"><img src="img/finlist.jpg" alt="A table of students' final exam accommodations with when and where" loading="lazy"><figcaption>The teacher’s list, by period.</figcaption></figure>
     </div>
 
     <div class="feat">
